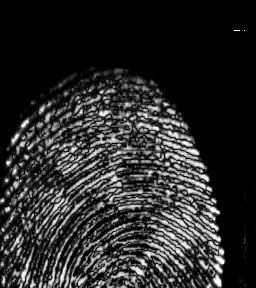
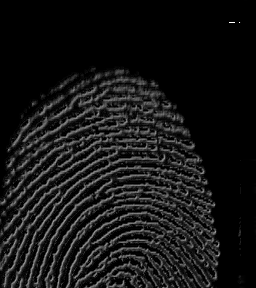
opti

diff --git a/src/optimization.cpp b/src/optimization.cpp
@@ -57,22 +57,13 @@ void argmin_txy(Image f, Image g, int &px, int &py, int number){
     py = 0;
     Image tmp = Image(g());
     int val = 0;
-    bool stop = false;
 
     for (int i = 0; i < number; i++){
         val = argmin(f, tmp, 0);
-        if (val != 0) {
-            px += val;
-            tmp = tmp.Translation(val, 0);
-        }
-        else stop = true;
-
+        if (val != 0) px += val;
         val = argmin(f, tmp, 1);
-        if (val != 0) {
-            py += val;
-            tmp = tmp.Translation(0, val);
-        }
-        else if (stop) return;
+        if (val != 0) py += val;
+        tmp = g.Translation(px, py);
     }
 }
 
@@ -84,7 +75,6 @@ void argmin_rtxy(Image f, Image g, int& px, int& py, double& theta, int number)
     theta = 0;
     int val_p;
     double val_t;
-    int stop = 0;
 
     Image tmp = Image(g().clone());
 
@@ -92,25 +82,20 @@ void argmin_rtxy(Image f, Image g, int& px, int& py, double& theta, int number)
         val_t = argmin(f, tmp, 2);
         if (abs(val_t) > 0.001){
             theta += val_t;
-            tmp = tmp.InverseRotation(val_t);
         }
-        else stop = 1;
 
         val_p = argmin(f, tmp, 0);
         if (val_p != 0) {
             px += val_p;
-            tmp = tmp.Translation(val_p, 0);
-
         }
-        else stop += 1;
 
         val_p = argmin(f, tmp, 1);
         if (val_p != 0) {
             py += val_p;
-            tmp = tmp.Translation(0, val_p);
         }
-        else if (stop == 2) return;
-        stop = 0;
+
+        tmp = g.Rotation(theta);
+        tmp = tmp.Translation(px, py);
     }
 }
 
@@ -337,7 +322,7 @@ void descent(Image f, Image g, double& px, double& py, double p0x, double p0y, d
 
 
 
-
+/*
 //il y a surement un problème avec cette fonction
 float l_n(Image f, Image g, int px, int py)
 {
@@ -415,4 +400,4 @@ void argmin_txy_n(Image f, Image g, int &px, int &py, int number){
 
     }
 }
-
+*/

diff --git a/include/optimization.h b/include/optimization.h
@@ -5,16 +5,19 @@
 
 float l(Image, Image, int px = 0, int py = 0, double theta = 0);
 double argmin(Image, Image, int arg);
-void argmin_txy(Image, Image, int &, int &, int number = 10);
+void argmin_txy(Image, Image, int &, int &, int number = 5);
 void argmin_rtxy(Image, Image, int&, int&, double&, int number = 10);
 
-float l_n(Image, Image, int px = 0, int py = 0);
-int argmin_n(Image, Image, int arg);
-void argmin_txy_n(Image, Image, int&, int&, int number = 5);
 double improvement(Image , Image , int , int);
 void improvement_xy(Image , Image , double&, double &, int number = 5);
+
 double descent_x(Image , Image , double p0 = 10, double alpha = 0.1);
 void descent(Image f, Image g, double& px, double& py, double p0x, double p0y, double alphax, double alphay);
 
+/*
+float l_n(Image, Image, int px = 0, int py = 0);
+int argmin_n(Image, Image, int arg);
+void argmin_txy_n(Image, Image, int&, int&, int number = 5);
+*/
 
 #endif

diff --git a/demo/test_optimization.cpp b/demo/test_optimization.cpp
@@ -42,8 +42,8 @@ int main()
     diff.display("Difference translation xy");
     diff.save("diff_txy");
 
-
-    // //Improvements
+/*
+    //Improvements
     double px_d(0), py_d(0);
     improvement_xy(finger_txy, finger, px_d, py_d);
     cout << "(p_x, p_y) = (" << px_d  << ", " << py_d << ")" << endl;
@@ -58,6 +58,7 @@ int main()
     
     //Clear the windows
     cv::destroyAllWindows();
+*/
 
     //RTXY
     Image rtxy("../img/rtxy_finger.png");
@@ -75,6 +76,7 @@ int main()
     diff.display("Difference rtxy");
     diff.save("diff_rtxy");
 
+/*
     //Clear the windows
     cv::destroyAllWindows();
     
@@ -98,6 +100,7 @@ int main()
 
     res.display("res");
     res.save("grad_xy");    
+*/
 
     return 0;
 }
